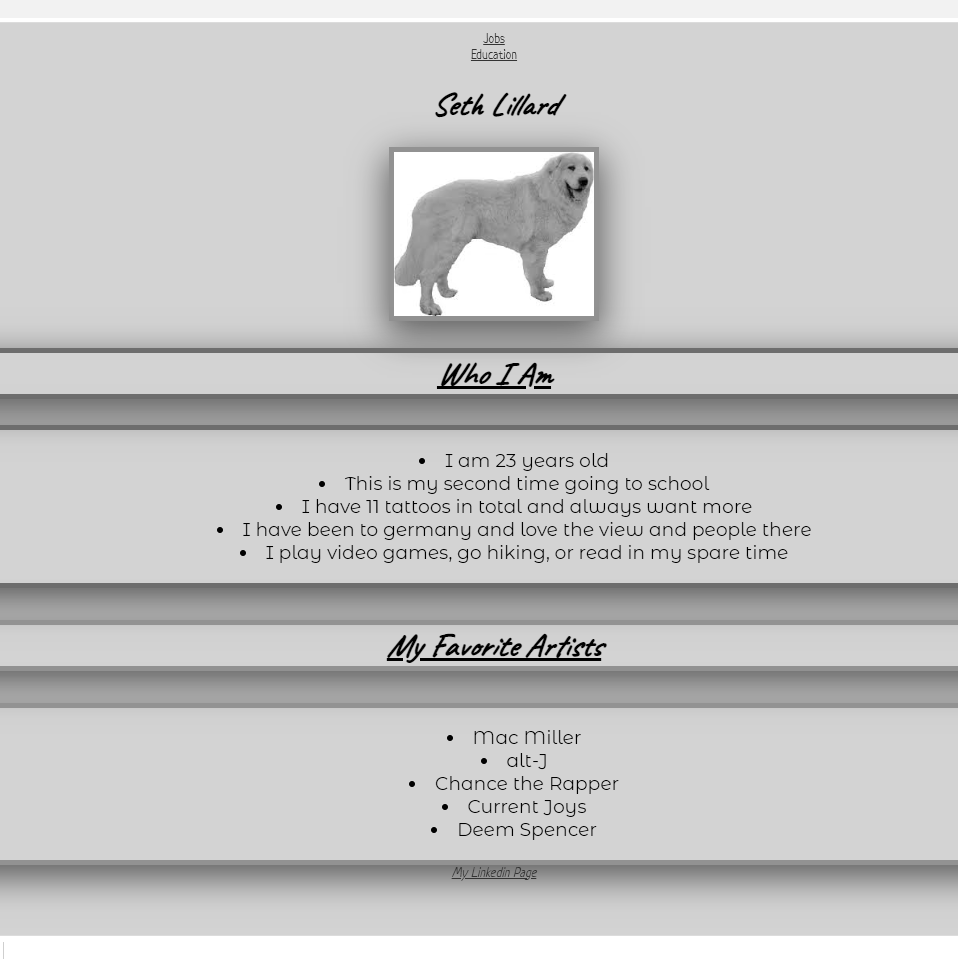
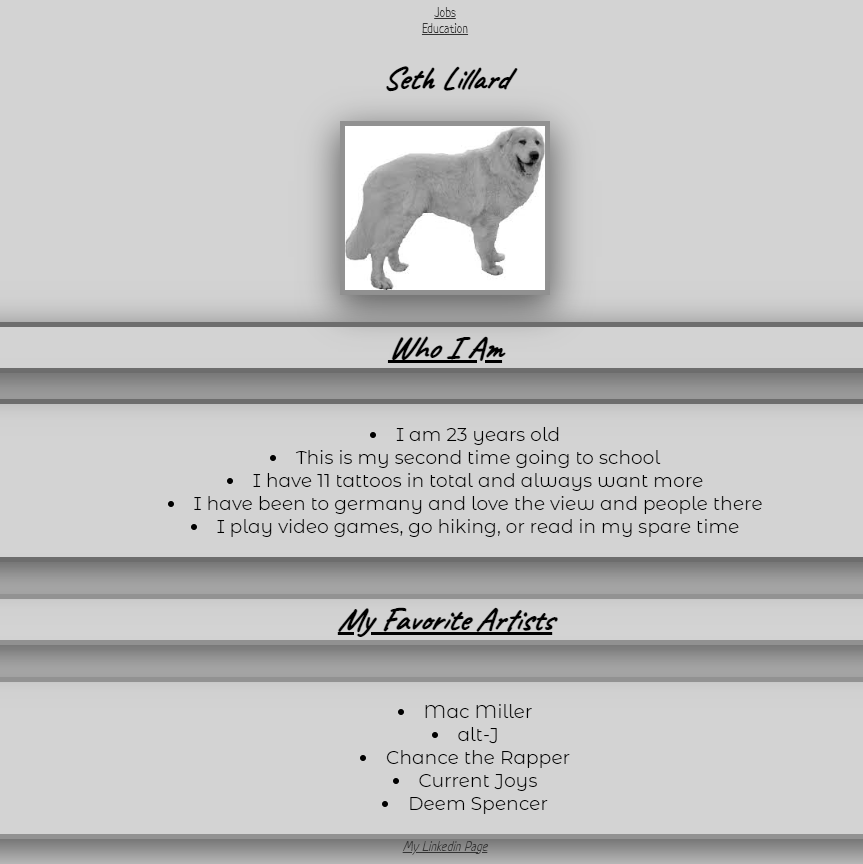
cleaned up

diff --git a/index.html b/index.html
@@ -71,22 +71,27 @@
             <br><br><br>
             <div class="container px-4 px-lg-5">
                 <div class="container px-4 px-lg-5">
-                    <!-- Featured Education Row-->
-                    <div class="row gx-0 mb-4 mb-lg-5 align-items-center">
-                        <div class="col-xl-8 col-lg-7"><img class="img-fluid img-border mb-3 mb-lg-0" src="assets/img/aboutme.png" alt="..." /></div>
-                        <div class="col-xl-4 col-lg-5">
-                            <div class="featured-text text-center text-lg-left">
-                                <h4 class="text-style"><a href="https://lillards.github.io/AboutMe/" target="_blank">About Me Project</a></h4>
-                                <p class="text-black-50 mb-0">The About Me project was the actual first step into web development for me. I had practiced little bits of coding in the past, but this was my only genuine project at the time. It's not much, but was a good foreshadowing of whats to come.</p>
+                <!-- Project One Row-->
+                <div class="row gx-0 mb-5 mb-lg-0 justify-content-center">
+                    <div class="col-lg-6"><img class="img-fluid rtl rbl" src="assets/img/aboutme.png" alt="..." /></div>
+                    <div class="col-lg-6">
+                        <div class="bg-black text-center h-100 project rtr rbr">
+                            <div class="d-flex h-100">
+                                <div class="project-text w-100 my-auto text-center text-lg-left">
+                                    <h4 class="text-white text-style"><a href="https://lillards.github.io/AboutMe/" target="_blank">About Me Project</a></h4>
+                                    <p class="mb-0 text-white-50">The About Me project was the actual first step into web development for me. I had practiced little bits of coding in the past, but this was my only genuine project at the time. It's not much, but was a good foreshadowing of whats to come.</p>
+                                    <hr class="d-none d-lg-block mb-0 ms-0" />
+                                </div>
                             </div>
                         </div>
                     </div>
                 </div>
+                <br>
                 <!-- Project One Row-->
                 <div class="row gx-0 mb-5 mb-lg-0 justify-content-center">
-                    <div class="col-lg-6"><img class="img-fluid img-border" src="assets/img/marioclub.png" alt="..." /></div>
+                    <div class="col-lg-6"><img class="img-fluid rtl rbl" src="assets/img/marioclub.png" alt="..." /></div>
                     <div class="col-lg-6">
-                        <div class="bg-black text-center h-100 project">
+                        <div class="bg-black text-center h-100 project rtr rbr">
                             <div class="d-flex h-100">
                                 <div class="project-text w-100 my-auto text-center text-lg-left">
                                     <h4 class="text-white text-style"><a href="https://lillards.github.io/Mario/" target="_blank">Marioclub</a></h4>
@@ -97,11 +102,12 @@
                         </div>
                     </div>
                 </div>
+                <br>
                 <!-- Project Two Row-->
                 <div class="row gx-0 justify-content-center">
-                    <div class="col-lg-6"><img class="img-fluid img-border" src="assets/img/madlibs.png" alt="..." /></div>
+                    <div class="col-lg-6"><img class="img-fluid rbr rtr" src="assets/img/madlibs.png" alt="..." /></div>
                     <div class="col-lg-6 order-lg-first">
-                        <div class="bg-black text-center h-100 project">
+                        <div class="bg-black text-center h-100 project rbl rtl">
                             <div class="d-flex h-100">
                                 <div class="project-text w-100 my-auto text-center text-lg-right">
                                     <h4 class="text-white text-style"><a href="https://lillards.github.io/madLibs/" target="_blank">
@@ -115,6 +121,7 @@
                 </div>
             </div>
         </section>
+        <hr>
         <!-- Education -->
         <section class="projects-section bg-light text-center" id="education">
             <h1 class="text-style">Education</h1>
@@ -122,7 +129,7 @@
             <div class="container px-4 px-lg-5">
                 <!-- Featured Education Row-->
                 <div class="row gx-0 mb-4 mb-lg-5 align-items-center">
-                    <div class="col-xl-8 col-lg-7"><img class="img-fluid img-size-2 img-border mb-3 mb-lg-0" src="assets/img/ka.jpg" alt="..." /></div>
+                    <div class="col-xl-8 col-lg-7"><img class="img-fluid img-size-2 mb-3 mb-lg-0" src="assets/img/ka.jpg" alt="..." /></div>
                     <div class="col-xl-4 col-lg-5">
                         <div class="featured-text text-center text-lg-left">
                             <h4 class="text-style"><a href="https://kableacademy.com/" target="_blank">Kable Acadamey</a></h4>
@@ -131,10 +138,11 @@
                     </div>
                 </div>
             </div>
+
             <div class="container px-4 px-lg-5">
                 <!-- Featured Education Row-->
                 <div class="row gx-0 mb-4 mb-lg-5 align-items-center">
-                    <div class="col-xl-8 col-lg-7"><img class="img-fluid img-size-2 img-border mb-3 mb-lg-0" src="assets/img/bchs.jpg" alt="..." /></div>
+                    <div class="col-xl-8 col-lg-7"><img class="img-fluid img-size-2 mb-3 mb-lg-0" src="assets/img/bchs.jpg" alt="..." /></div>
                     <div class="col-xl-4 col-lg-5">
                         <div class="featured-text text-center text-lg-left">
                             <h4 class="text-style"><a href="https://www.boone.k12.ky.us/1/Home" target="_blank">Boone County High School</a></h4>
@@ -144,6 +152,7 @@
                 </div>
             </div>
         </section>
+        <hr>
         <!-- Work Experience -->
         <section class="projects-section bg-light" id="workexperience">
             <div class="container px-4 px-lg-5 text-center">
@@ -151,9 +160,9 @@
                 <br><br><br>
                 <!-- Work One Row-->
                 <div class="row gx-0 mb-5 mb-lg-0 justify-content-center">
-                    <div class="col-lg-6"><img class="img-fluid img-border img-size-2" src="assets/img/cvg2.png" alt="..." /></div>
-                    <div class="col-lg-6">
-                        <div class="bg-black text-center h-100 project">
+                    <div class="col-lg-6"><img class="img-fluid img-size-2 rtl rbl" src="assets/img/cvg2.png" alt="..." /></div>
+                    <div class="col-lg-6 ">
+                        <div class="bg-black text-center h-100 project rtr rbr">
                             <div class="d-flex h-100">
                                 <div class="project-text w-100 my-auto text-center text-lg-left">
                                     <h4 class="text-white text-style"><a href="https://www.amazon.jobs/en-gb/business_categories/fulfillment-operations" target="_blank">Amazon</a></h4>
@@ -166,11 +175,12 @@
                         </div>
                     </div>
                 </div>
+                <br>
                 <!-- Work Two Row-->
                 <div class="row gx-0 justify-content-center">
-                    <div class="col-lg-6"><img class="img-fluid img-border img-size-2" src="assets/img/sterling.jpg" alt="..." /></div>
+                    <div class="col-lg-6"><img class="img-fluid img-size-2 rtr rbr" src="assets/img/sterling.jpg" alt="..." /></div>
                     <div class="col-lg-6 order-lg-first">
-                        <div class="bg-black text-center h-100 project">
+                        <div class="bg-black text-center h-100 project rbl rtl">
                             <div class="d-flex h-100">
                                 <div class="project-text w-100 my-auto text-center text-lg-right">
                                     <h4 class="text-white text-style"><a href="https://www.sterlingcutglass.com/" target="_blank">Sterling Cut Glass</a></h4>
@@ -182,15 +192,16 @@
                         </div>
                     </div>
                 </div>
+                <br>
                 <!-- Work Three Row -->
                 <div class="row gx-0 mb-5 mb-lg-0 justify-content-center">
-                    <div class="col-lg-6"><img class="img-fluid img-border img-size-2" src="assets/img/spectrum.jpg" alt="..." /></div>
+                    <div class="col-lg-6"><img class="img-fluid img-size-2 rtl rbl" src="assets/img/spectrum.jpg" alt="..." /></div>
                     <div class="col-lg-6">
-                        <div class="bg-black text-center h-100 project">
+                        <div class="bg-black text-center h-100 project rtr rbr">
                             <div class="d-flex h-100">
                                 <div class="project-text w-100 my-auto text-center text-lg-left">
                                     <h4 class="text-white text-style"><a href="https://jobs.spectrum.com/job/florence/sup-residential-telesales/4673/37471728032" target="_blank">Charter Communications</a></h4>
-                                    <h5 class="text-white">Sales and Marketing</h5>
+                                    <h5 class="text-white">Outbound Telemarketing Representative</h5>
                                     <p class="mb-0 text-white-50">I was a telesales associate who made residential outbound calls using different sales and social techniques to determine what the customer needs and what services best fit their needs. It was my duty to find a plethora of new customers and constantly expand our customer base.</p>
                                     <hr class="d-none d-lg-block mb-0 ms-0" />
                                 </div>
@@ -198,11 +209,12 @@
                         </div>
                     </div>
                 </div>
+                <br>
                 <!-- Work Four Row-->
                 <div class="row gx-0 justify-content-center">
-                    <div class="col-lg-6"><img class="img-fluid img-border img-size-2" src="assets/img/borderless.png" alt="..." /></div>
+                    <div class="col-lg-6"><img class="img-fluid img-size-2 rtr rbr" src="assets/img/borderless.png" alt="..." /></div>
                     <div class="col-lg-6 order-lg-first">
-                        <div class="bg-black text-center h-100 project">
+                        <div class="bg-black text-center h-100 project rtl rbl">
                             <div class="d-flex h-100">
                                 <div class="project-text w-100 my-auto text-center text-lg-right">
                                     <h4 class="text-white text-style"><a href="https://goborderless.com/" target="_blank">Borderless Distribution</a></h4>

diff --git a/css/styles.css b/css/styles.css
@@ -82,6 +82,26 @@
   font-family: "IBM Plex Mono", monospace;
 }
 
+body {
+  border: 3px solid #000;
+}
+
+.rtl {
+  border-top-left-radius: 10%;
+}
+
+.rtr {
+  border-top-right-radius: 10%;
+}
+
+.rbl {
+  border-bottom-left-radius: 10%;
+}
+
+.rbr {
+  border-bottom-right-radius: 10%;
+}
+
 @media (prefers-reduced-motion: no-preference) {
   :root {
     scroll-behavior: smooth;
@@ -11648,7 +11668,6 @@ body {
 @media (min-width: 992px) {
   .projects-section .featured-text {
     padding: 0 0 0 2rem;
-    border-left: 0.5rem solid #000;
   }
 }
 .projects-section .project-text {
